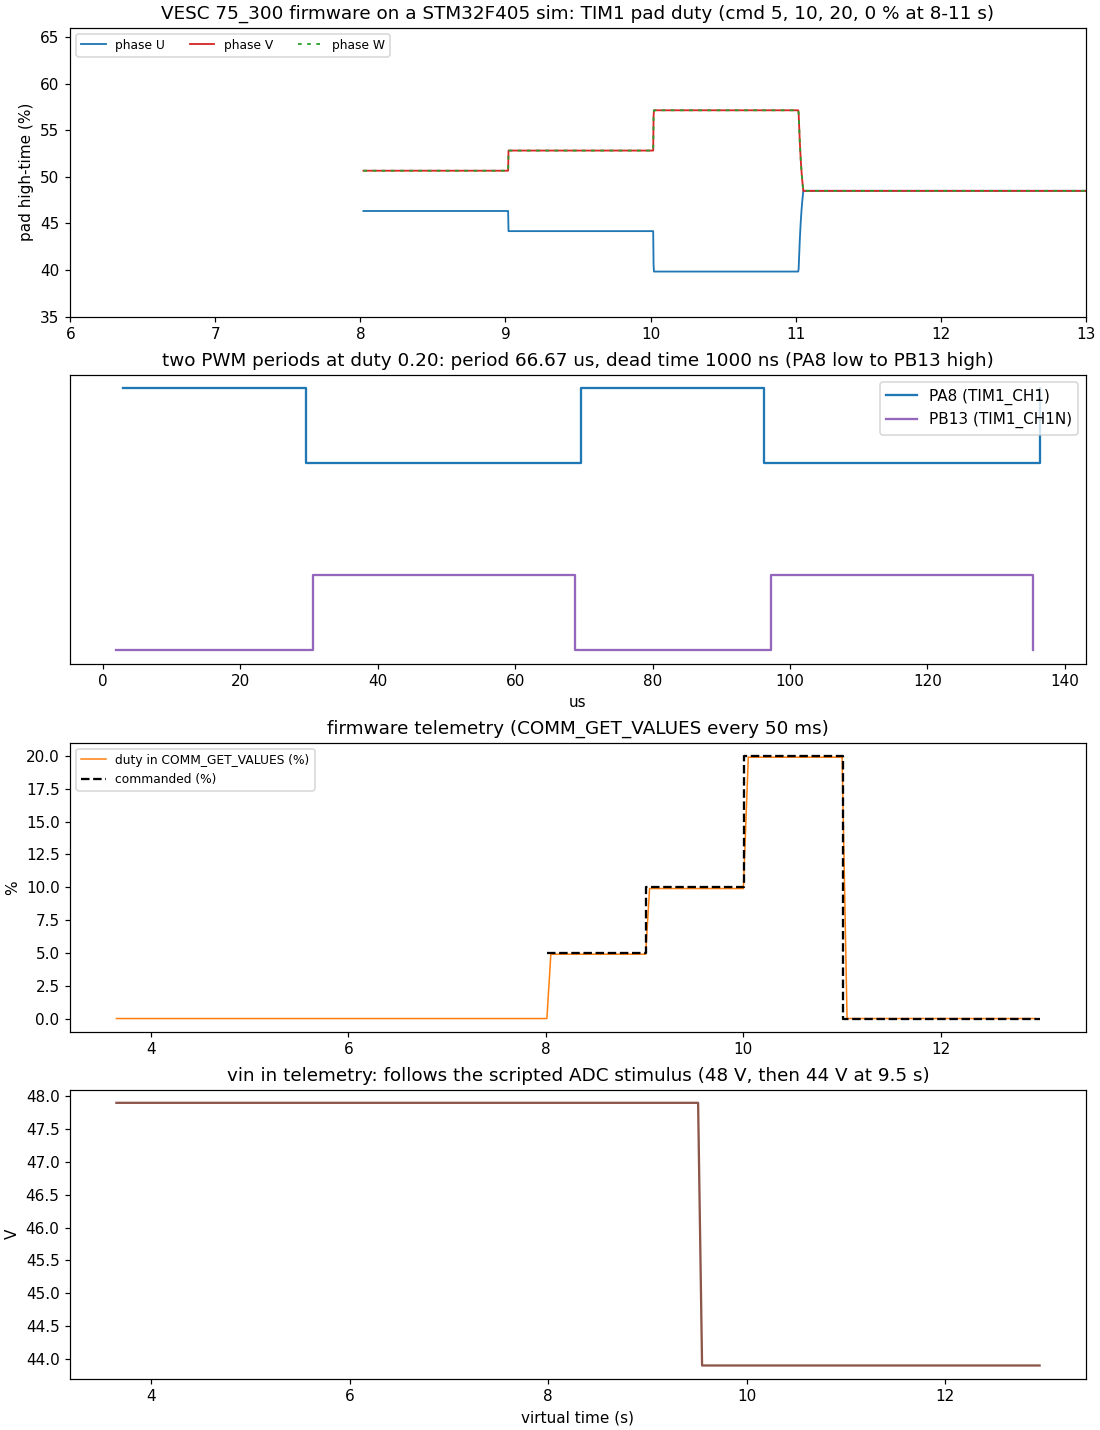
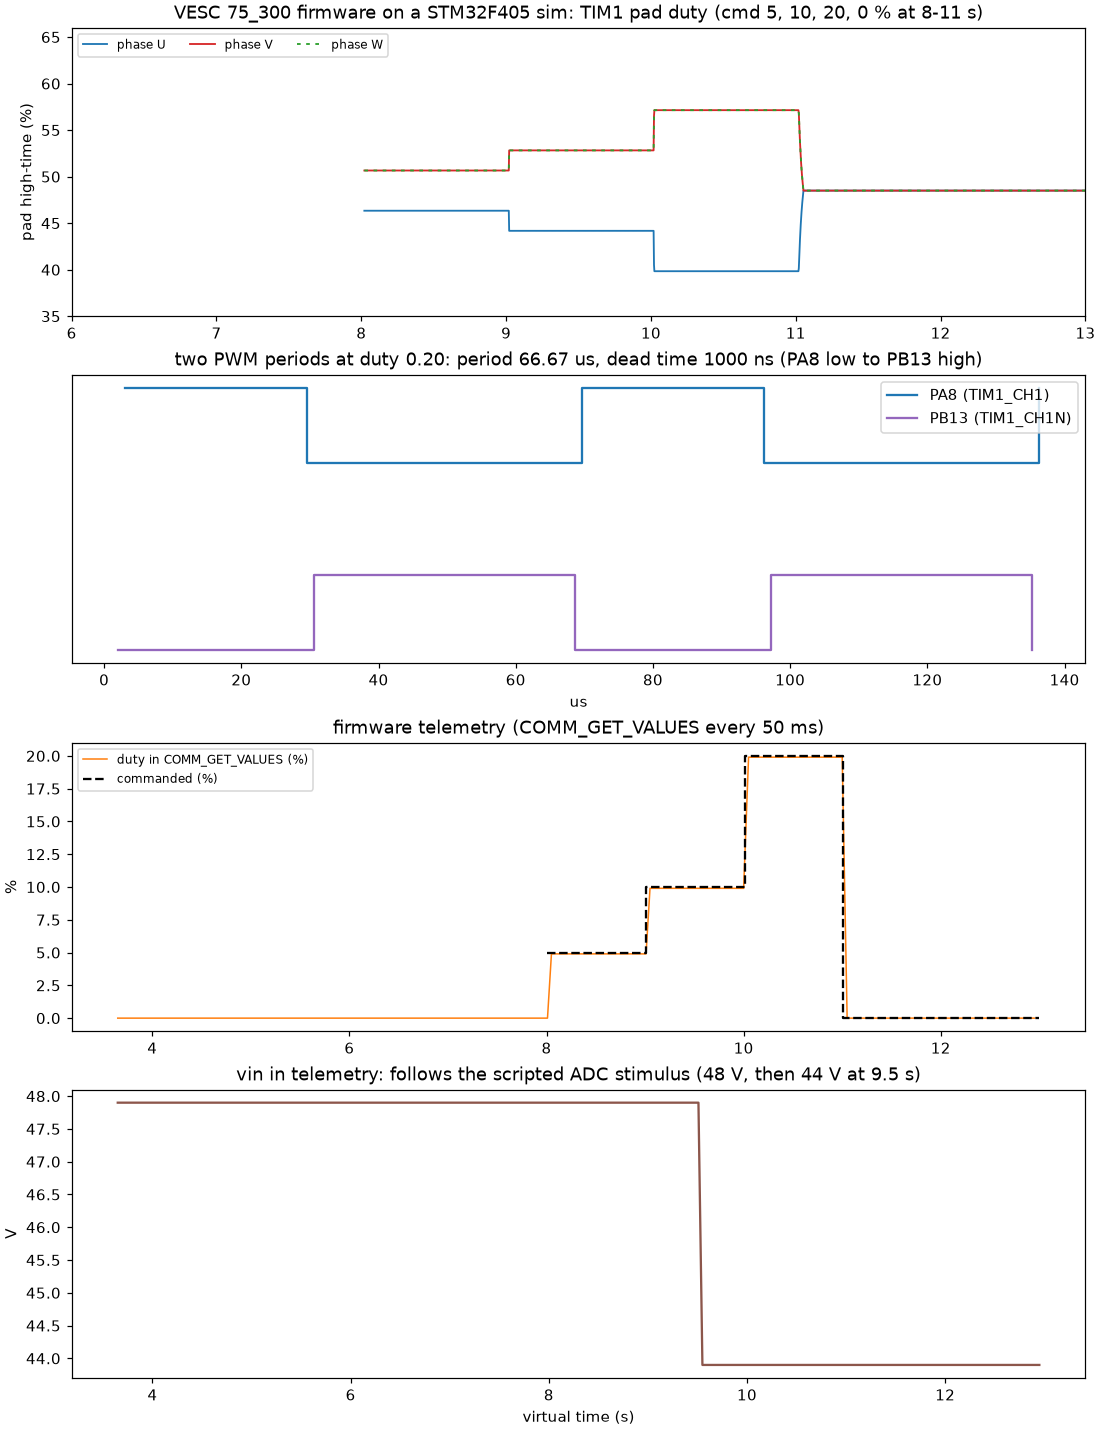
sim: runs on released sim 0.10.8, drop pre-release notes
Re-ran the unchanged demo on sim 0.10.8 (build 64f89c38): measured output identical to the earlier pre-release run.

diff --git a/README.md b/README.md
@@ -10,12 +10,12 @@ STM32F405RG) runs unmodified on a simulated F405. A scripted UART host speaks th
 `COMM_GET_VALUES`, `COMM_SET_DUTY`) and the TIM1 gate-driver pads are recorded. No board, no motor. Everything is in [`sim/`](sim/).
 
 ```
-cd sim && SIM=/path/to/sim ./run.sh     # needs the F405 timer/ADC trigger model (see "Needs a newer sim"); the plot needs python3 + matplotlib
+cd sim && ./run.sh     # needs released sim 0.10.8 or later; the plot needs python3 + matplotlib
 ```
 
 ![TIM1 pad duty, dead time and telemetry](sim/vesc.png)
 
-**Measured, from a real run** ([`sim/run.log`](sim/run.log), [`sim/measured.txt`](sim/measured.txt); 13 s of virtual time):
+**Measured, from a real run** ([`sim/run.log`](sim/run.log), [`sim/measured.txt`](sim/measured.txt); 13 s of virtual time in 71 s of wall clock, released sim 0.10.8 build 64f89c38; output identical to the earlier pre-release run):
 
 - Build: `make fw_75_300 ARM_SDK_PREFIX=arm-none-eabi- ULIBS="-lm -u _printf_float"` with arm-none-eabi-gcc 15.2, no source change.
 - `COMM_FW_VERSION` answers `7.01`, hardware name `75_300`. The firmware's motor init waits for the pack voltage to settle and
@@ -39,18 +39,12 @@ cd sim && SIM=/path/to/sim ./run.sh     # needs the F405 timer/ADC trigger model
 
 **What does not work / is not shown**
 
-- **Needs a newer sim.** Released `sim` 0.10.4 does not convert the F405 ADC: TIM1's update event does not reset TIM2 (`TIM2.SMCR` = 0x4, ITR0,
-  as the firmware sets it) so the TIM2 CC2 ADC trigger fires about once per 65536 ticks. On 0.10.4 the firmware reads `vin` 0.0 and a MOSFET temperature of -273 C (ADC code 0), waits its full 10 s calibration timeout, the UART app answers from 10.35 s, and the duty command never reaches the pads
-  (reported duty 0.000, pads idle at 50 %). The numbers above come from a pre-release pyrite build (`sim 0.10.0`, commit `50d3404e`) that has the
-  F405 timer-trigger / ADC-triple-mode work of [pyrite#3515](https://github.com/simantic-dev/pyrite/pull/3515). That PR was merged into a stacked
-  branch, not `main`: [pyrite#3813](https://github.com/simantic-dev/pyrite/issues/3813).
 - No motor and no encoder or hall input: `erpm` stays 0, phase currents stay 0, and `COMM_SET_DUTY` in FOC mode with no rotor shows only the
   voltage vector (duty x Vbus / sqrt(3)) at a fixed angle. Current control, the observer, start-up, regen and the fault paths are not exercised.
   The firmware's own FOC under a plant is in the sim-fixtures `ebike-vesc` fixtures.
 - Default motor configuration (`MCCONF` defaults, FOC): no `COMM_SET_MCCONF` is sent.
 - Only hardware `75_300` is run. CAN, USB, LispBM, the IMU and BLE are not wired.
 - The HSE crystal is 8 MHz (`vesc.board`, `HSE_VALUE` of the target).
-- Wall clock: 62 s for 13 s of virtual time on the pre-release build.
 
 
 [![License: GPL v3](https://img.shields.io/badge/License-GPLv3-blue.svg)](https://www.gnu.org/licenses/gpl-3.0)
